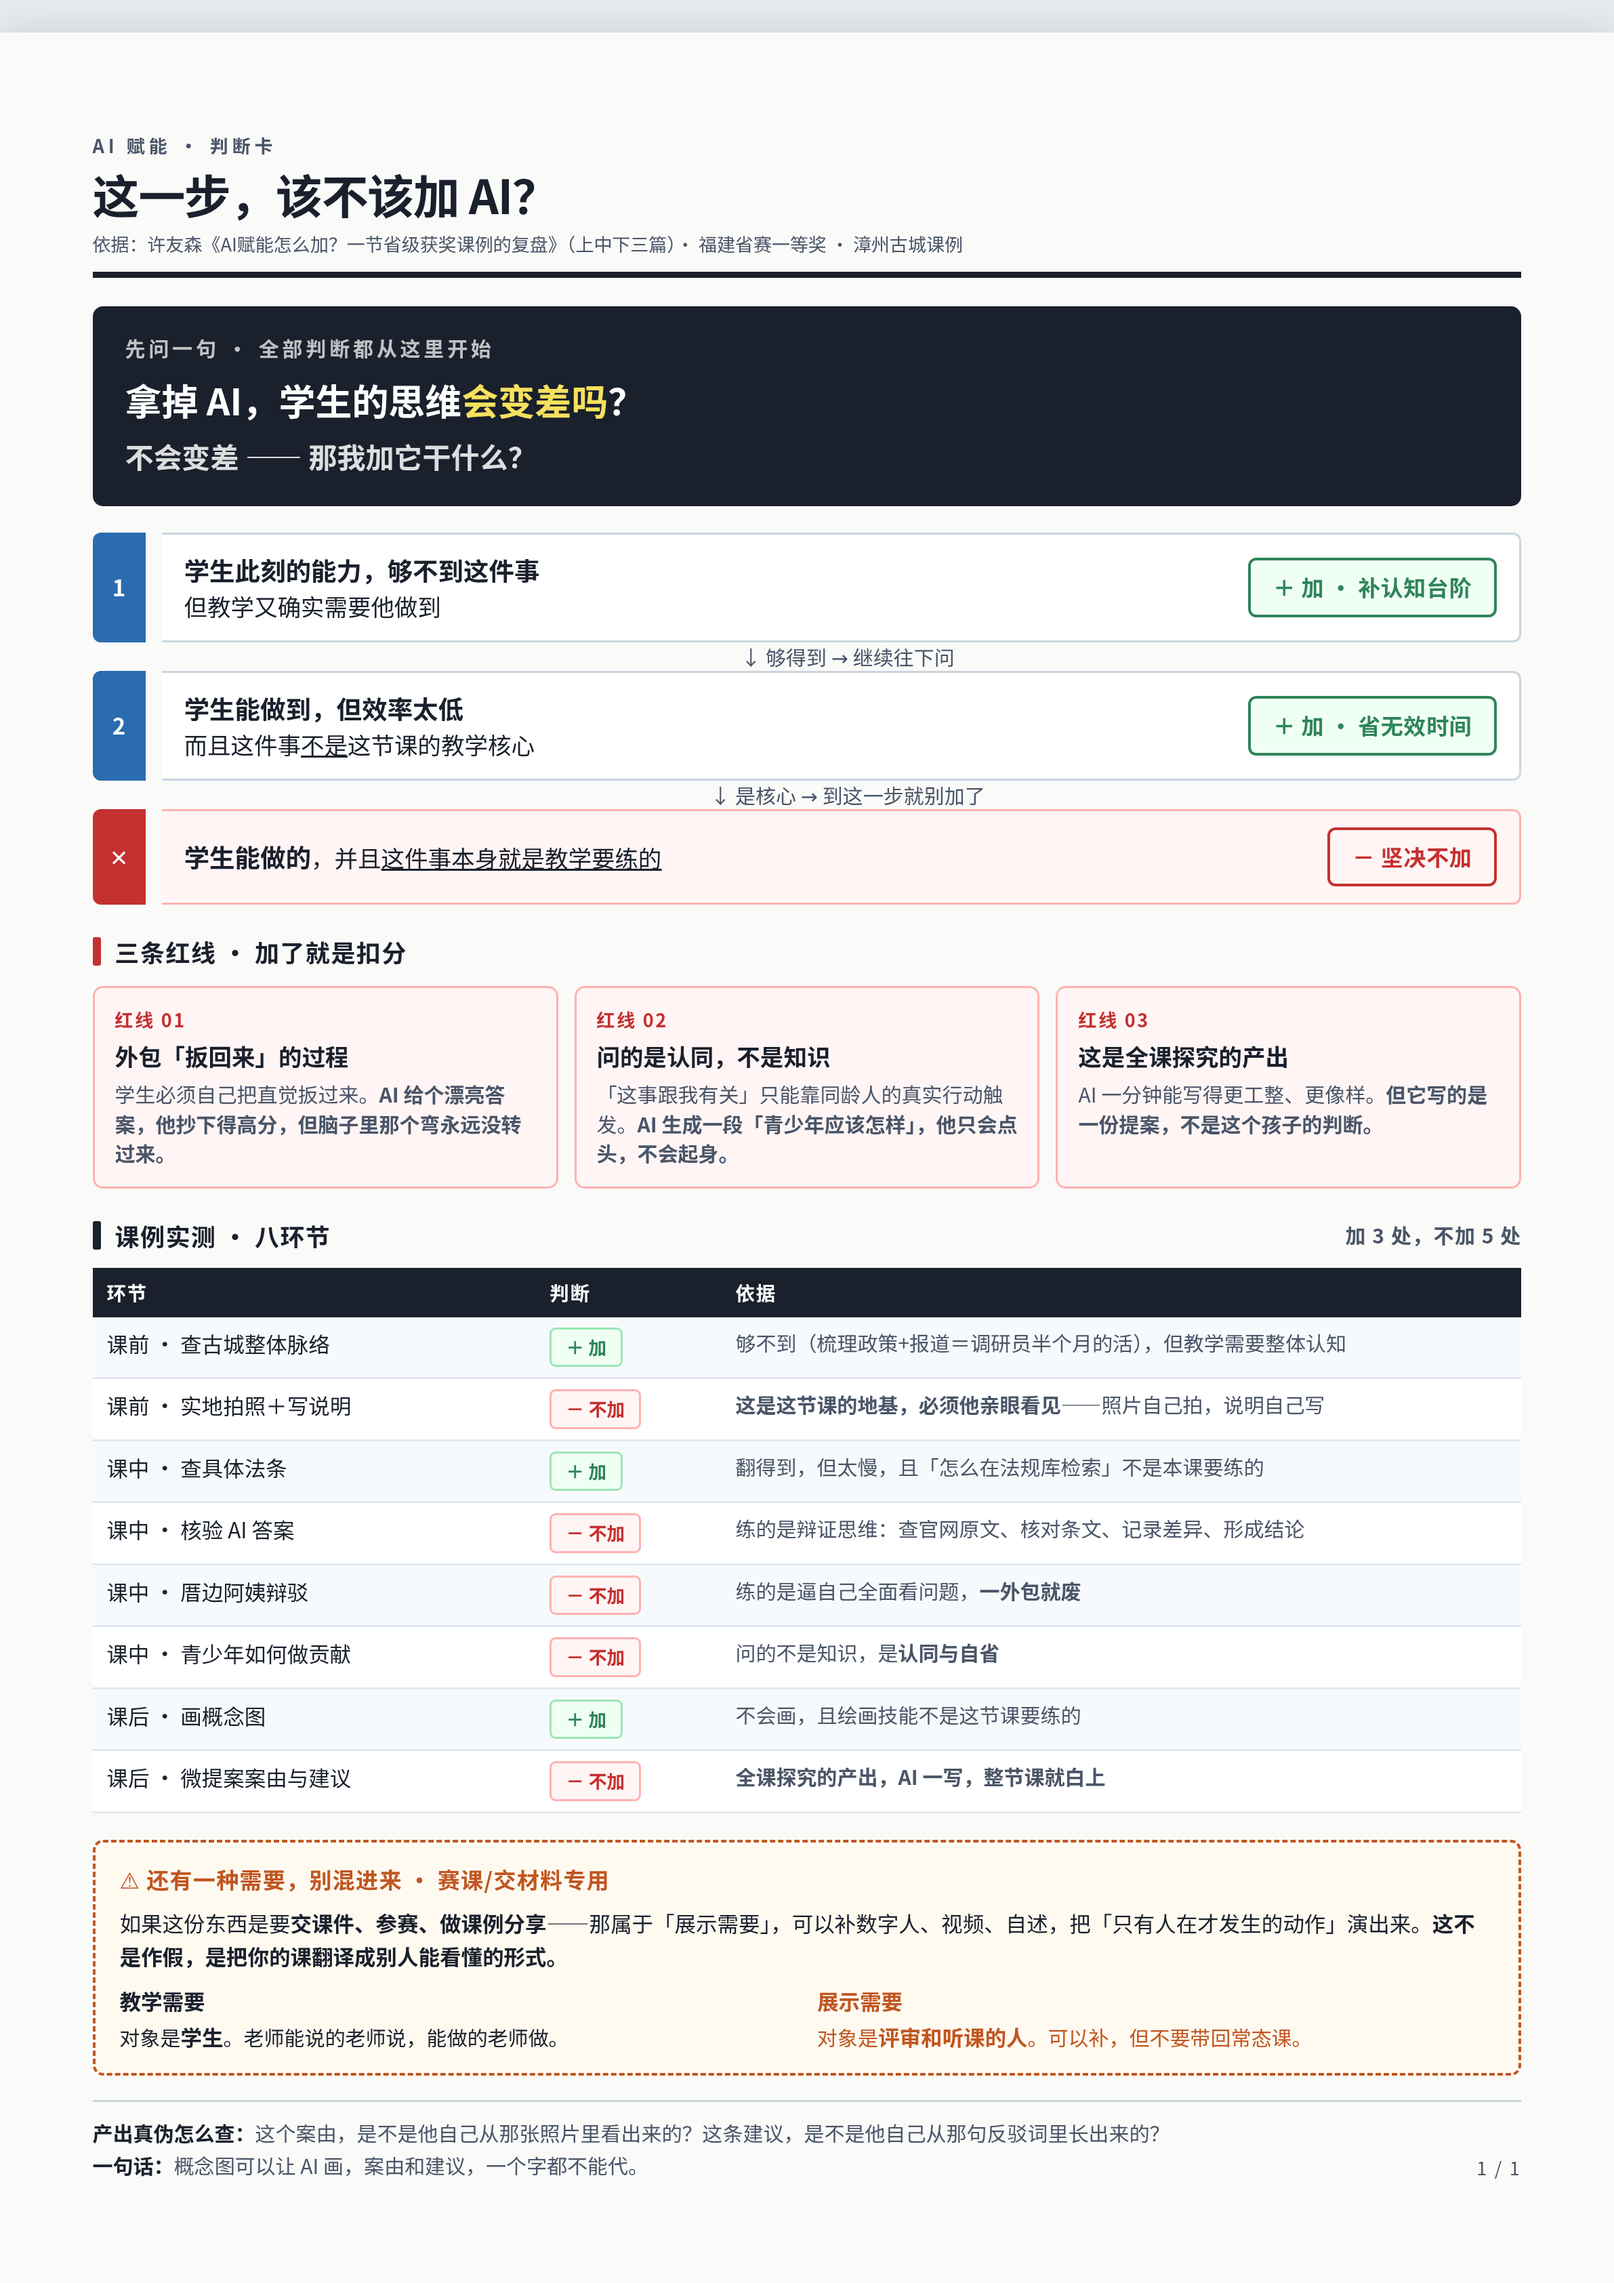
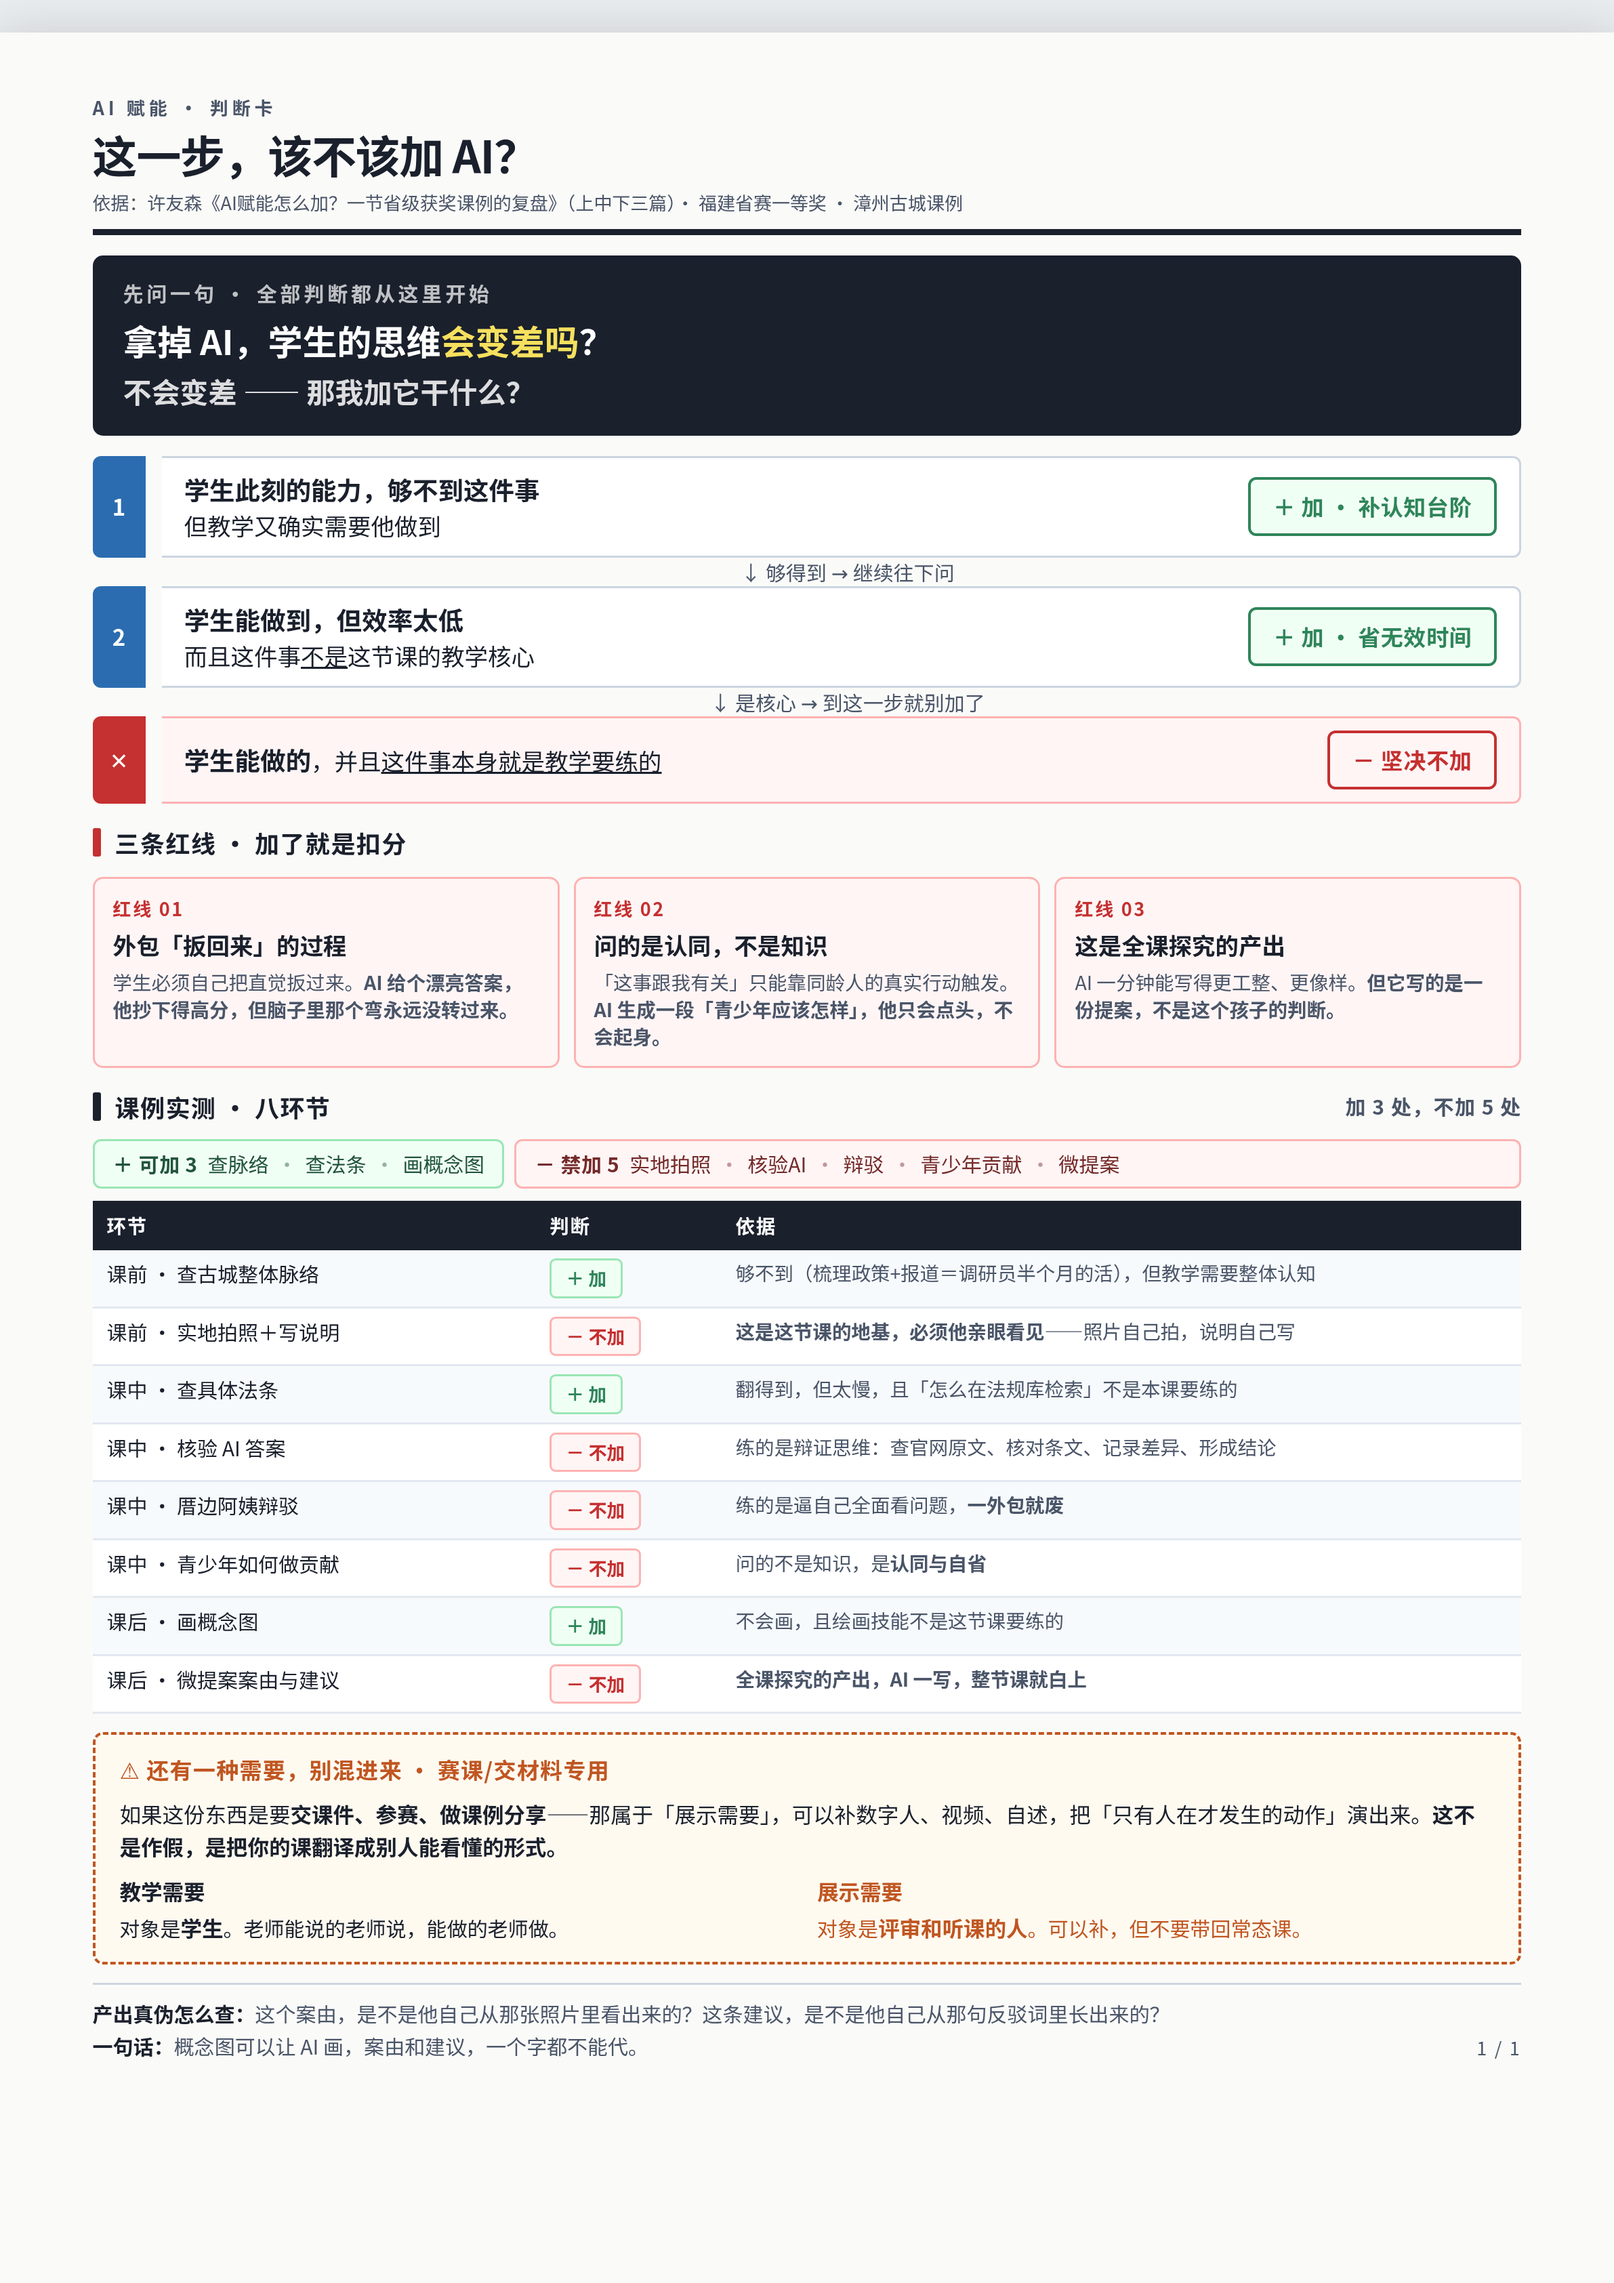
add: 判断卡加摘要栏(可加3/禁加5) + 压缩留白回A4一页
- 八环节表格上方新增双色摘要栏:
  绿 + 可加 3: 查脉络 · 查法条 · 画概念图
  红 - 禁加 5: 实地拍照 · 核验AI · 辩驳 · 青少年贡献 · 微提案
- 加入后超A4 44px, 压缩: 页边距13mm->8mm, 表格字号10.5->10, 依据列10->9.5,
  h1 23->22, 反问18->17, 各级margin与td padding微调 (共17处)
- 实测1123px截图底部完整: footer两段+页码1/1 均在页内
- PNG重出 2382x3369 666KB

diff --git a/ai-education/assets/ai-when-to-add-card.html b/ai-education/assets/ai-when-to-add-card.html
@@ -24,27 +24,27 @@
     -webkit-font-smoothing:antialiased;
   }
   .page{
-    width:210mm; min-height:297mm; margin:16px auto; padding:13mm 12mm;
+    width:210mm; min-height:297mm; margin:16px auto; padding:8mm 12mm;
     background:var(--bg); box-shadow:0 4px 24px rgba(0,0,0,.18);
   }
 
   /* ── 页眉 ── */
-  header{border-bottom:3px solid var(--ink); padding-bottom:7px; margin-bottom:14px}
+  header{border-bottom:3px solid var(--ink); padding-bottom:6px; margin-bottom:10px}
   .eyebrow{font-size:9px; letter-spacing:.22em; color:var(--sub); text-transform:uppercase; font-weight:600}
-  h1{font-size:23px; font-weight:800; letter-spacing:-.02em; margin-top:3px; line-height:1.2}
+  h1{font-size:22px; font-weight:800; letter-spacing:-.02em; margin-top:3px; line-height:1.2}
   .src{font-size:9px; color:var(--sub); margin-top:4px}
 
   /* ── 核心反问 ── */
   .ask{
     background:var(--ink); color:#fff; border-radius:5px;
-    padding:13px 16px; margin-bottom:13px;
+    padding:11px 15px; margin-bottom:10px;
   }
   .ask .tag{font-size:10px; letter-spacing:.16em; opacity:.72; font-weight:600}
-  .ask .q{font-size:18px; font-weight:700; margin-top:5px; line-height:1.45}
+  .ask .q{font-size:17px; font-weight:700; margin-top:4px; line-height:1.4}
   .ask .q em{font-style:normal; color:#f6e05e}
 
   /* ── 决策阶梯 ── */
-  .flow{display:flex; flex-direction:column; gap:0; margin-bottom:14px}
+  .flow{display:flex; flex-direction:column; gap:0; margin-bottom:10px}
   .step{display:flex; align-items:stretch; gap:8px}
   .step .rail{
     width:26px; flex:none; display:flex; align-items:center; justify-content:center;
@@ -53,7 +53,7 @@
   }
   .step .body{
     flex:1; background:#fff; border:1px solid var(--line); border-left:none;
-    border-radius:0 4px 4px 0; padding:8px 11px;
+    border-radius:0 4px 4px 0; padding:6px 11px;
     display:grid; grid-template-columns:1fr auto; gap:10px; align-items:center;
   }
   .step .cond{font-size:11.5px}
@@ -75,11 +75,11 @@
     content:''; width:4px; height:14px; background:var(--red);
     border-radius:1px; flex:none;
   }
-  .redlines{display:grid; grid-template-columns:repeat(3,1fr); gap:8px; margin-bottom:14px}
-  .rl{background:var(--red-bg); border:1px solid #feb2b2; border-radius:5px; padding:9px 10px}
+  .redlines{display:grid; grid-template-columns:repeat(3,1fr); gap:7px; margin-bottom:10px}
+  .rl{background:var(--red-bg); border:1px solid #feb2b2; border-radius:5px; padding:8px 9px}
   .rl .n{font-size:9px; font-weight:800; color:var(--red); letter-spacing:.1em}
   .rl .t{font-size:11.5px; font-weight:700; margin:3px 0 4px; line-height:1.35}
-  .rl .d{font-size:10px; color:var(--sub); line-height:1.45}
+  .rl .d{font-size:9.5px; color:var(--sub); line-height:1.4}
 
   /* ── 八环节表 ── */
   .grid-title{
@@ -93,22 +93,29 @@
   }
   .grid-title > span:first-of-type{margin-right:auto}
   .grid-title .count{font-size:10px; font-weight:600; color:var(--sub)}
-  table{width:100%; border-collapse:collapse; font-size:10.5px; margin-bottom:13px}
+  table{width:100%; border-collapse:collapse; font-size:10px; margin-bottom:9px}
   th{background:var(--ink); color:#fff; font-size:9.5px; font-weight:700;
      letter-spacing:.06em; padding:5px 7px; text-align:left}
-  td{padding:5px 7px; border-bottom:1px solid #e2e8f0; vertical-align:top}
+  td{padding:4px 7px; border-bottom:1px solid #e2e8f0; vertical-align:top}
   tbody tr:nth-child(even) td{background:#fff}
   tbody tr:nth-child(odd) td{background:#f7fafc}
+  .digest{display:grid; grid-template-columns:auto 1fr; gap:5px; margin-bottom:6px}
+  .digest > div{padding:4px 9px; border-radius:4px; font-size:10px; line-height:1.45}
+  .d-add{background:var(--green-bg); border:1px solid #9ae6b4; color:#22543d}
+  .d-skip{background:var(--red-bg); border:1px solid #feb2b2; color:#742a2a}
+  .digest b{font-weight:800; margin-right:5px; letter-spacing:.02em}
+  .digest .sep{opacity:.45; margin:0 4px}
+
   .badge{display:inline-block; font-size:9px; font-weight:800;
          padding:2px 7px; border-radius:3px; white-space:nowrap}
   .b-add{color:var(--green); background:var(--green-bg); border:1px solid #9ae6b4}
   .b-skip{color:var(--red); background:var(--red-bg); border:1px solid #feb2b2}
-  td.reason{color:var(--sub); font-size:10px}
+  td.reason{color:var(--sub); font-size:9.5px; line-height:1.45}
 
   /* ── 展示需要 ── */
   .exhibit{
     background:var(--orange-bg); border:1.5px dashed var(--orange);
-    border-radius:5px; padding:10px 12px; margin-bottom:12px;
+    border-radius:5px; padding:9px 12px; margin-bottom:9px;
   }
   .exhibit .h{font-size:11px; font-weight:800; color:var(--orange); letter-spacing:.04em; margin-bottom:5px}
   .exhibit p{font-size:10.5px; line-height:1.55}
@@ -118,7 +125,7 @@
   .exhibit .col.obj{color:var(--orange)}
 
   /* ── 页脚 ── */
-  footer{border-top:1px solid var(--line); padding-top:7px; display:flex; justify-content:space-between; align-items:flex-end}
+  footer{border-top:1px solid var(--line); padding-top:6px; display:flex; justify-content:space-between; align-items:flex-end}
   footer .k{font-size:10px; color:var(--sub); line-height:1.6}
   footer .k b{color:var(--ink)}
   footer .page-no{font-size:9px; color:var(--sub); letter-spacing:.1em}
@@ -209,6 +216,10 @@
   <div class="grid-title">
     <span>课例实测 · 八环节</span>
     <span class="count">加 3 处，不加 5 处</span>
+  </div>
+  <div class="digest">
+    <div class="d-add"><b>＋ 可加 3</b>查脉络<span class="sep">·</span>查法条<span class="sep">·</span>画概念图</div>
+    <div class="d-skip"><b>－ 禁加 5</b>实地拍照<span class="sep">·</span>核验AI<span class="sep">·</span>辩驳<span class="sep">·</span>青少年贡献<span class="sep">·</span>微提案</div>
   </div>
   <table>
     <thead>
